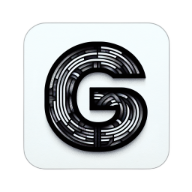
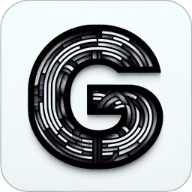
fixes image

diff --git a/src/app/page.tsx b/src/app/page.tsx
@@ -1,5 +1,6 @@
 import { GithubIcon, LinkedinIcon } from "lucide-react"
 import { type Metadata } from "next"
+import Image from "next/image"
 import Link from "next/link"
 import { AboutMe } from "~/components/about-me"
 import { ContactMe } from "~/components/contact-me"
@@ -26,7 +27,7 @@ export const metadata: Metadata = {
       rel: "icon",
       type: "image/png",
       sizes: "16x16",
-      url: "/favicon-32x32.png"
+      url: "/favicon-16x16.png"
     }
   ],
   manifest: "/site.webmanifest"
@@ -62,6 +63,12 @@ function Header() {
   return (
     <header className="lg:sticky lg:top-0 lg:flex lg:max-h-screen lg:w-1/2 lg:flex-col lg:justify-between lg:py-24">
       <div className="flex flex-col gap-4">
+        <Image
+          width={150}
+          height={150}
+          alt="logo"
+          src="/android-chrome-512x512.png"
+        />
         <h1 className="text-4xl font-bold sm:text-5xl">Galo Sandoval</h1>
         <h2 className="text-lg font-medium sm:text-xl">
           Software Engineer at BrightInsight
@@ -69,61 +76,7 @@ function Header() {
         <p className="max-w-sm text-sm font-light leading-normal lg:whitespace-nowrap">
           Passionate App Developer | Web Enthusiast | Culinary Explorer
         </p>
-        <nav
-          id="navigation"
-          className="nav hidden flex-col justify-start pt-16 lg:flex"
-        >
-          <Link
-            href="#aboutMe"
-            className="group relative w-fit whitespace-nowrap tracking-widest"
-          >
-            <span className="font-bold">About me</span>
-            <span
-              id="linkaboutMe"
-              className="absolute left-0 z-10 w-0 overflow-hidden border-b-2 border-b-primary font-bold text-primary duration-500 group-hover:w-full group-focus-visible:w-full motion-reduce:duration-0"
-            >
-              About me
-            </span>
-          </Link>
-          <Link
-            href="#experience"
-            className="group relative w-fit whitespace-nowrap tracking-widest"
-          >
-            <span className="font-bold">Experience</span>
-            <span
-              id="linkexperience"
-              className="absolute left-0 z-10 w-0 overflow-hidden border-b-2 border-b-primary font-bold text-primary duration-500 group-hover:w-full group-focus-visible:w-full motion-reduce:duration-0"
-            >
-              Experience
-            </span>
-          </Link>
-          <Link
-            href="#projects"
-            className="group group relative w-fit whitespace-nowrap tracking-widest"
-          >
-            <span className="font-bold">Projects</span>
-            <span
-              id="linkprojects"
-              className="absolute left-0 z-10 w-0 overflow-hidden border-b-2 border-b-primary font-bold text-primary duration-500 group-hover:w-full group-focus-visible:w-full motion-reduce:duration-0"
-            >
-              Projects
-            </span>
-          </Link>
-          <Link
-            href="#contactMe"
-            className="group relative w-fit whitespace-nowrap tracking-widest"
-          >
-            <span className="border-b-2 border-transparent font-bold">
-              Contact Me
-            </span>
-            <span
-              id="linkcontactMe"
-              className="absolute left-0 z-10 w-0 overflow-hidden border-b-2 border-b-primary font-bold text-primary duration-500 group-hover:w-full group-focus-visible:w-full motion-reduce:duration-0"
-            >
-              Contact Me
-            </span>
-          </Link>
-        </nav>
+        <Navigation />
       </div>
 
       <ul className="flex gap-2 pt-8">
@@ -154,6 +107,66 @@ function Header() {
         </li>
       </ul>
     </header>
+  )
+}
+
+function Navigation() {
+  return (
+    <nav
+      id="navigation"
+      className="nav hidden flex-col justify-start pt-16 lg:flex"
+    >
+      <Link
+        href="#aboutMe"
+        className="group relative w-fit whitespace-nowrap tracking-widest"
+      >
+        <span className="font-bold">About me</span>
+        <span
+          id="linkaboutMe"
+          className="absolute left-0 z-10 w-0 overflow-hidden border-b-2 border-b-primary font-bold text-primary duration-500 group-hover:w-full group-focus-visible:w-full motion-reduce:duration-0"
+        >
+          About me
+        </span>
+      </Link>
+      <Link
+        href="#experience"
+        className="group relative w-fit whitespace-nowrap tracking-widest"
+      >
+        <span className="font-bold">Experience</span>
+        <span
+          id="linkexperience"
+          className="absolute left-0 z-10 w-0 overflow-hidden border-b-2 border-b-primary font-bold text-primary duration-500 group-hover:w-full group-focus-visible:w-full motion-reduce:duration-0"
+        >
+          Experience
+        </span>
+      </Link>
+      <Link
+        href="#projects"
+        className="group group relative w-fit whitespace-nowrap tracking-widest"
+      >
+        <span className="font-bold">Projects</span>
+        <span
+          id="linkprojects"
+          className="absolute left-0 z-10 w-0 overflow-hidden border-b-2 border-b-primary font-bold text-primary duration-500 group-hover:w-full group-focus-visible:w-full motion-reduce:duration-0"
+        >
+          Projects
+        </span>
+      </Link>
+      <Link
+        href="#contactMe"
+        className="group relative w-fit whitespace-nowrap tracking-widest"
+      >
+        <span className="border-b-2 border-transparent font-bold">
+          Contact Me
+        </span>
+        <span
+          id="linkcontactMe"
+          className="absolute left-0 z-10 w-0 overflow-hidden border-b-2 border-b-primary font-bold text-primary duration-500 group-hover:w-full group-focus-visible:w-full motion-reduce:duration-0"
+        >
+          Contact Me
+        </span>
+      </Link>
+    </nav>
   )
 }
 

diff --git a/src/app/layout.tsx b/src/app/layout.tsx
@@ -5,12 +5,6 @@ import { ThemeProvider } from "~/components/theme-provider"
 import { SkipToContent } from "~/components/skip-to-content"
 import { Toaster } from "~/components/ui/toaster"
 
-// export const metadata = {
-//   title: "Galo Sandoval",
-//   description: "Galo Sandoval is a software engineer based in Los Angeles.",
-//   icons: [{ rel: "icon", url: "/favicon.ico" }]
-// }
-
 export default function RootLayout({
   children
 }: {
